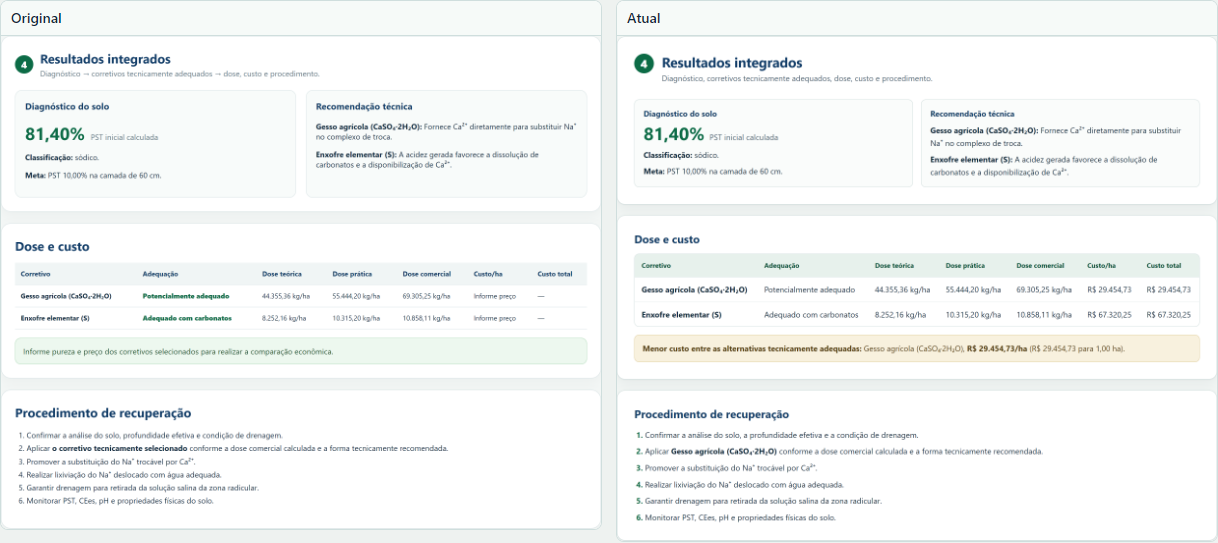
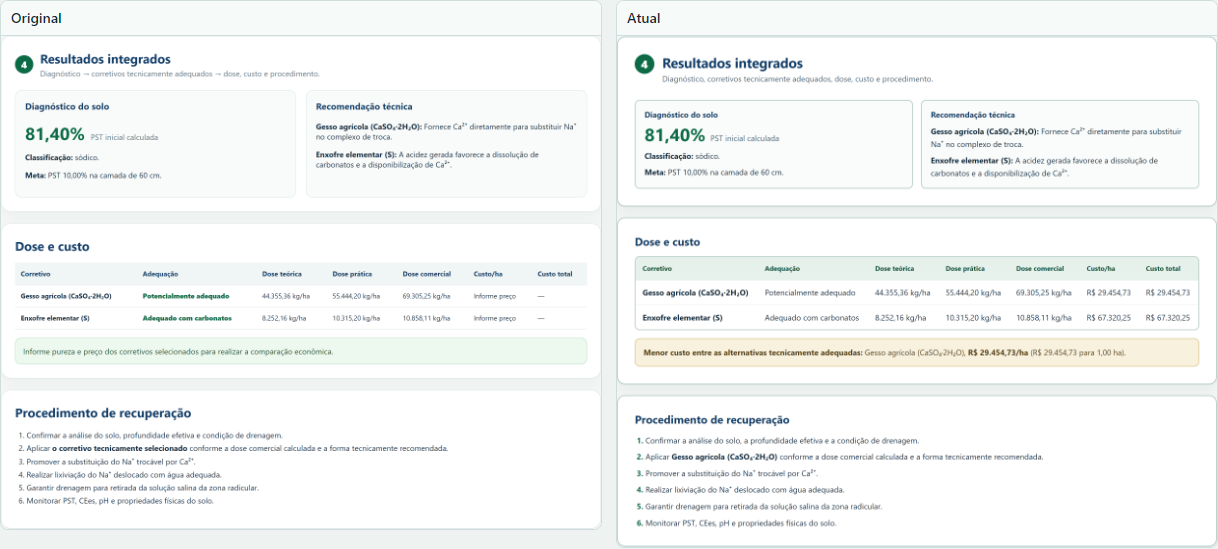
Aceita licencas, instala pacotes com ponto e virgula e engrossa bordas

diff --git a/style.css b/style.css
@@ -217,7 +217,7 @@ code {
 
 .cartao {
   background: var(--papel);
-  border: 1px solid var(--linha);
+  border: 2px solid #bfd3d0;
   border-radius: var(--raio);
   padding: clamp(20px, 3vw, 34px);
   box-shadow: var(--sombra);
@@ -274,7 +274,7 @@ code {
   border-radius: var(--raio-pequeno);
   background: var(--verde-claro);
   color: var(--verde-escuro);
-  border: 1px solid #cfe4d9;
+  border: 2px solid #cfe4d9;
 }
 
 /* Formulário */
@@ -299,7 +299,7 @@ select {
   margin-top: 7px;
   min-height: 54px;
   padding: 13px 15px;
-  border: 1.5px solid #b7cbc9;
+  border: 2px solid #a8c0bd;
   border-radius: 12px;
   background: #fff;
   color: var(--tinta);
@@ -358,7 +358,7 @@ select[aria-invalid="true"] {
 }
 
 .corretivo {
-  border: 1px solid var(--linha);
+  border: 2px solid #cbdcda;
   border-radius: 12px;
   padding: 18px;
   background: var(--papel);
@@ -389,11 +389,34 @@ select[aria-invalid="true"] {
   min-height: 0;
   margin: 0;
   padding: 0;
-  border: 0;
-  border-radius: 4px;
-  background: none;
+  border: 2px solid #6f8b88;
+  border-radius: 5px;
+  background: #fff;
   box-shadow: none;
-  accent-color: var(--verde);
+  appearance: none;
+  -webkit-appearance: none;
+  display: grid;
+  place-content: center;
+  cursor: pointer;
+}
+
+.corretivo-topo input[type="checkbox"]::after {
+  content: "";
+  width: 11px;
+  height: 6px;
+  border-left: 2px solid #fff;
+  border-bottom: 2px solid #fff;
+  transform: rotate(-45deg) translateY(-1px);
+  opacity: 0;
+}
+
+.corretivo-topo input[type="checkbox"]:checked {
+  background: var(--verde);
+  border-color: var(--verde-escuro);
+}
+
+.corretivo-topo input[type="checkbox"]:checked::after {
+  opacity: 1;
 }
 
 .corretivo-topo input[type="checkbox"]:focus-visible {
@@ -465,7 +488,7 @@ button[aria-pressed="true"] {
 /* Erros resumidos */
 
 .resumo-erros {
-  border: 1px solid #e7c4ad;
+  border: 2px solid #e7c4ad;
   background: var(--alerta-fundo);
   color: #6d2c05;
   border-radius: var(--raio);
@@ -509,7 +532,7 @@ button[aria-pressed="true"] {
 }
 
 .caixa-resultado {
-  border: 1px solid var(--linha);
+  border: 2px solid #bfd3d0;
   border-radius: var(--raio-pequeno);
   padding: 18px;
   background: #fafcfb;
@@ -546,7 +569,7 @@ button[aria-pressed="true"] {
 
 .tabela-rolagem {
   overflow-x: auto;
-  border: 1px solid var(--linha);
+  border: 2px solid #bfd3d0;
   border-radius: var(--raio-pequeno);
 }
 
@@ -594,7 +617,7 @@ td.atencao {
   margin-top: 16px;
   padding: 14px 16px;
   border-radius: var(--raio-pequeno);
-  border: 1px solid var(--dourado-linha);
+  border: 2px solid var(--dourado-linha);
   background: var(--dourado-claro);
   color: #55400f;
   font-variant-numeric: tabular-nums;

diff --git a/testes/prints.js b/testes/prints.js
@@ -56,7 +56,25 @@ function paginaDeComparacao(tela, esquerda, direita) {
   return caminho;
 }
 
+async function capturarValidacao(navegador) {
+  const pagina = await navegador.newPage({
+    viewport: { width: 900, height: 1200 },
+    deviceScaleFactor: 2
+  });
+  await pagina.goto(atual);
+  await pagina.getByRole('button', { name: /exemplo/i }).click();
+  await pagina.locator('#ph').fill('15');
+  await pagina.locator('#calc').click();
+  await pagina.waitForTimeout(500);
+  await pagina.locator('.cartao, .card').nth(1).screenshot({
+    path: path.join(pasta, 'validacao-ph15.png')
+  });
+  await pagina.close();
+  console.log('validacao-ph15.png');
+}
+
 const navegador = await chromium.launch({ channel: 'chrome' });
+
 
 for (const tela of TELAS) {
   for (const alvo of ['resultados', 'formulario']) {
@@ -83,6 +101,8 @@ for (const tela of TELAS) {
     console.log(nome);
   }
 }
+
+await capturarValidacao(navegador);
 
 await navegador.close();
 fs.rmSync(temporaria, { recursive: true, force: true });

diff --git a/testes/pagina.spec.js b/testes/pagina.spec.js
@@ -351,7 +351,7 @@ test('o checkbox do corretivo não herda o estilo dos campos de texto', async fu
   expect(medida.largura).toBeLessThanOrEqual(24);
   expect(medida.minHeight === '0px' || medida.minHeight === 'auto').toBe(true);
   expect(medida.padding).toBe('0px');
-  expect(medida.borda).toBe('0px');
+  expect(medida.borda).toBe('2px');
   expect(medida.desvioAcima).toBeGreaterThanOrEqual(0);
 });
 

diff --git a/MELHORIAS.md b/MELHORIAS.md
@@ -14,6 +14,13 @@
 
 ![Celular](prints/comparacao-formulario-celular.png)
 
+## Validação em ação
+
+Com pH 15, a versão atual recusa o valor e explica a faixa; o original aceitava
+e seguia para o cálculo.
+
+![Validação do pH 15](prints/validacao-ph15.png)
+
 ## Resultados
 
 ![Computador](prints/comparacao-desktop.png)
